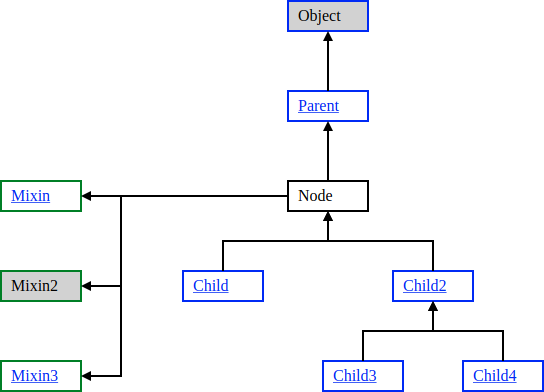
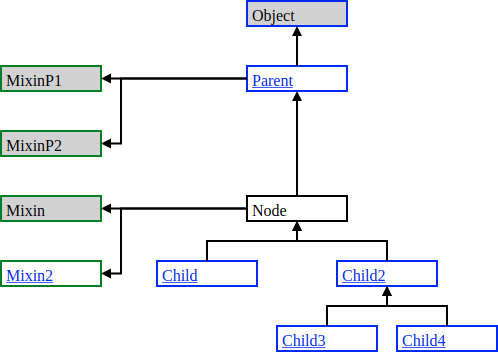
fix: display parent's mixins
As some parent node can be composed from other classes - they also should be displayed on the diagram, because child node inherits all properties and methods from the parent itself and all his mixins.

Changed region(s): [[0.0, 0.0, 1.0, 1.0], [0.512, 0.75, 0.5422, 0.8125]]

diff --git a/example.js b/example.js
@@ -1,6 +1,6 @@
-#!/usr/bin/env node
+const Diagram = require('inheritance-diagram');
 
-var graph = new (require('./'))(
+var graph = new Diagram(
 	// Node for what the diagram will be built
 	'Node',
 
@@ -9,11 +9,12 @@ var graph = new (require('./'))(
 		Node: {
 			parent: 'Parent',
 			children: ['Child', 'Child2'],
-			mixes:['Mixin', 'Mixin2', 'Mixin3']
+			mixes:['Mixin', 'Mixin2']
 		},
 		Parent: {
 			parent: 'Object',
 			children: ['Node'],
+			mixes: ['MixinP1', 'MixinP2'],
 			link: '#Parent'
 		},
 		Child: {
@@ -29,8 +30,8 @@ var graph = new (require('./'))(
 		Child4: {
 			link: '#Child4',
 		},
-		Mixin3: {
-			link: '#Mixin3'
+		Mixin2: {
+			link: '#Mixin2'
 		}
 	},
 
@@ -42,26 +43,20 @@ var graph = new (require('./'))(
 		// Customize rendering properties
 		node: {
 			dimensions: {
-				width: 80
+				height: 25
 			},
 			spacing: {
-				horizontal: 30,
-				vertical: 30
+				horizontal: 10
 			},
 			text: {
-				dx: 10
+				dx: 5
 			}
-		},
-
-		// External links to 3rd-party classes
-		externalLinks: {
-			Mixin: 'http://link.to/mixin/class.html'
 		}
 	}
 );
 
 const fileName = 'out.svg';
-process.stdout.write(`Wrinting to the file "${fileName}"...`);
+process.stdout.write(`Wrinting to "${fileName}"...`);
 require('fs').writeFile(fileName, graph.getResult(), err => {
 	if (err) {
 		throw err;

diff --git a/src/position.js b/src/position.js
@@ -98,9 +98,14 @@ const Position = Class(Parent, null, /** @lends Position.prototype */ {
 	 * @param {Array[]} grid - 2D grid
 	 */
 	_positionParents(grid) {
+		let yoffset = 0;
 		this.noi.parentStack.forEach((node, index) => {
 			node.x = this.noi.x;
-			node.y = -1 - index;
+			node.y = -1 - index - yoffset;
+			if (node.mixes.length > 1) {
+				yoffset += node.mixes.length - 1
+				node.y -= yoffset;
+			}
 
 			grid.unshift([node]);
 		});
@@ -143,13 +148,27 @@ const Position = Class(Parent, null, /** @lends Position.prototype */ {
 	 * @param {Array[]} grid - 2D grid
 	 */
 	_positionMixinNodes(grid) {
+		// I do not like this -1.3, but this is fastest way for now to increase the distance between NOI and mixin
+		const xoffset = -1.3;
+		const allMixes = [];
+
 		this.noi.mixes.forEach((node, index) => {
-			// I do not like this -1.3, but this is fastest way for now to increase the distance between NOI and mixin
-			node.x = -1.3;
+			node.x = xoffset;
 			node.y = index;
+
+			allMixes.push(node);
 		});
 
-		grid.push(this.noi.mixes);
+		this.noi.parentStack.forEach(parent => {
+			parent.mixes.forEach((node, index) => {
+				node.x = xoffset;
+				node.y = parent.y + index;
+
+				allMixes.push(node);
+			});
+		});
+
+		grid.push(allMixes);
 	},
 
 	/**

diff --git a/src/rendering.js b/src/rendering.js
@@ -259,22 +259,21 @@ const Rendering = Class(Parent, function() {
 	 * @param {D3Selection} domContainer - DOM comntainer where the rendered connection will be placed
 	 */
 	renderConnections(noi, endMarkerId, domContainer) {
-		// Connect parents
-		const parentStack = noi.parentStack;
-		if (parentStack.length > 0) {
-			this._renderVerticalConnection(noi, parentStack[0], endMarkerId, domContainer, 'parent');
+		const verticalStack = [noi].concat(noi.parentStack);
 
-			for (let n = 0, N = parentStack.length - 1; n < N; n++) {
-				this._renderVerticalConnection(parentStack[n], parentStack[n + 1], endMarkerId, domContainer, 'parent');
-			}
+		// Connect parents
+		for (let n = 0, N = verticalStack.length - 1; n < N; n++) {
+			this._renderVerticalConnection(verticalStack[n], verticalStack[n + 1], endMarkerId, domContainer, 'parent');
 		}
 
 		// Connect children
 		this._connectChildren(noi, endMarkerId, domContainer);
 
 		// Connect mixes
-		noi.mixes.forEach(mixin => {
-			this._renderHorizontalConnection(noi, mixin, endMarkerId, domContainer, 'mixin');
+		verticalStack.forEach(node => {
+			node.mixes.forEach(mixin => {
+				this._renderHorizontalConnection(node, mixin, endMarkerId, domContainer, 'mixin');
+			});
 		});
 	},
 

diff --git a/src/GraphNode.js b/src/GraphNode.js
@@ -13,7 +13,7 @@ const Class = require('class-wrapper').Class;
  * @class
  *
  * @param {Objcet} data - Raw node data
- * @param {Object} [properties] - Properties for a graph node. Any of already defined properties can be defined and new one can be added. Only property names which are already defined as class methods or if the value is undefined, then such properties will be skipped.
+ * @param {Object} [properties] - Properties for a graph node. Any of already defined properties can be redefined and new one can be added. Only property names which are already defined as class methods or if the value is undefined, then such properties will be skipped.
  */
 const GraphNode = Class(function(data, properties) {
 	if (data) {
@@ -36,7 +36,7 @@ const GraphNode = Class(function(data, properties) {
 	if (properties) {
 		Object.keys(properties).forEach(property => {
 			const value = properties[property];
-			if (typeof value === 'undefined' || typeof this[property] === 'function') {
+			if (value === undefined || typeof this[property] === 'function') {
 				return;
 			}
 

diff --git a/test/main.js b/test/main.js
@@ -243,6 +243,25 @@ suite('E2E', function() {
 					link: '#Mixin'
 				}
 			}),
+			new TestSVG('parent with one mixin', 'Class', {
+				Class: {
+					parent: 'Parent'
+				},
+				Parent: {
+					link: '#Parent',
+					mixes: ['Mixin']
+				}
+			}),
+			new TestSVG('two parents with mixins', 'Class', {
+				Class: {
+					parent: 'Parent'
+				},
+				Parent: {
+					parent: 'Object',
+					link: '#Parent',
+					mixes: ['Mixin', 'Mixin2']
+				}
+			}),
 			new TestSVG('one mixin already converted into GraphNode', 'Class', {
 				Class: {
 					mixes: [

diff --git a/src/inputAdapter.js b/src/inputAdapter.js
@@ -77,6 +77,7 @@ const InputAdapter = Class(Parent, null, /** @lends InputAdapter.prototype */{
 
 		// the nodes in the map can be already converted into GraphNode
 		let stack = [data instanceof GraphNode ? data : this._createGraphNode(nodeName, map, 'parent')];
+		this._prepareMixinNodes(stack[0], map);
 
 		if (data && data.parent) {
 			stack = stack.concat(this._prepareParentNodes(data.parent, map));

diff --git a/src/outputAdapter.js b/src/outputAdapter.js
@@ -38,7 +38,7 @@ const OutputAdapter = Class(Parent, null, /** @lends OutputAdapter.prototype */ 
 	 *
 	 * @type {Object}
 	 *
-	 * @property {String} [css = ''] - Additional CSS for a diagram
+	 * @property {String} [css = ""] - Additional CSS for a diagram
 	 */
 	properties: {
 		css: ''

diff --git a/src/main.js b/src/main.js
@@ -60,7 +60,7 @@ const Diagram = Class(function(noiName, nodeMap, options) {
 			}
 		},
 		{
-			title: 'Adapting the output',
+			title: 'Creating the output',
 			action: () => {
 				this.out = this.outAdapter.process(this.domContainer);
 			}
